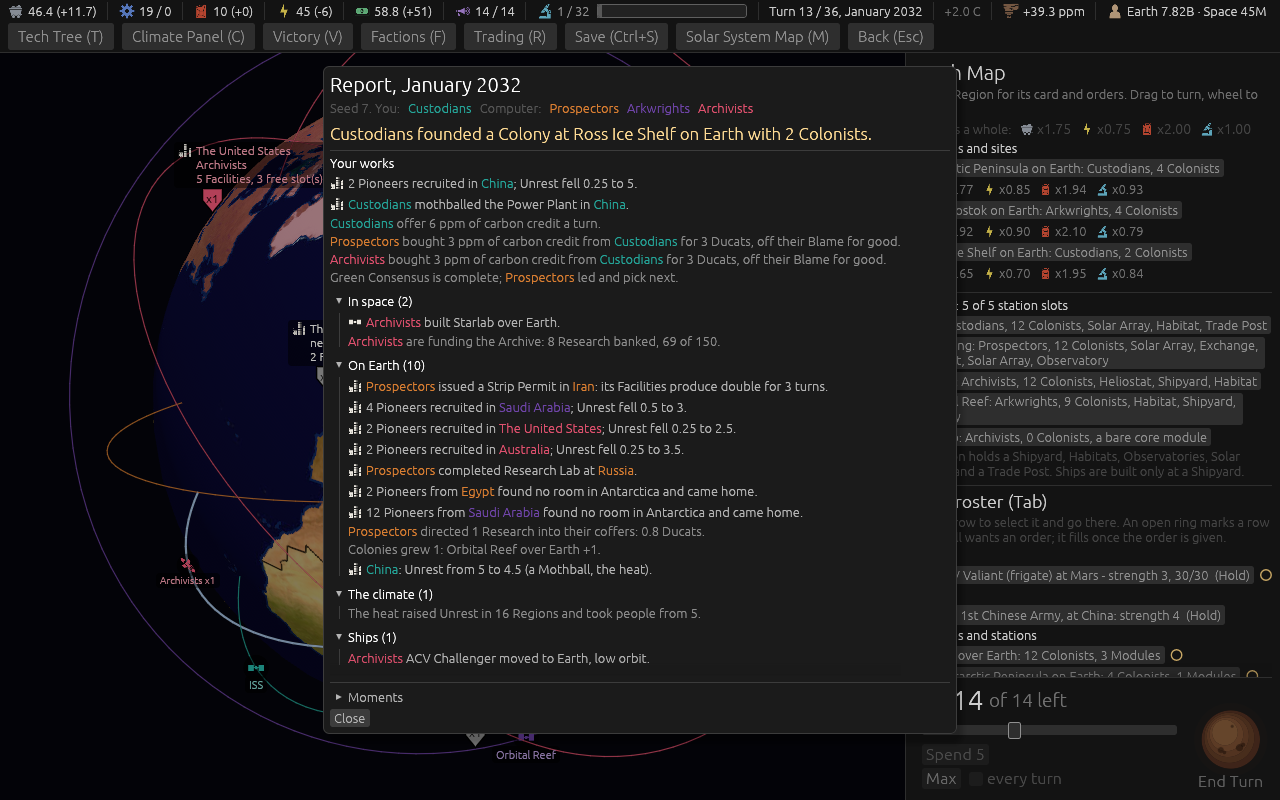
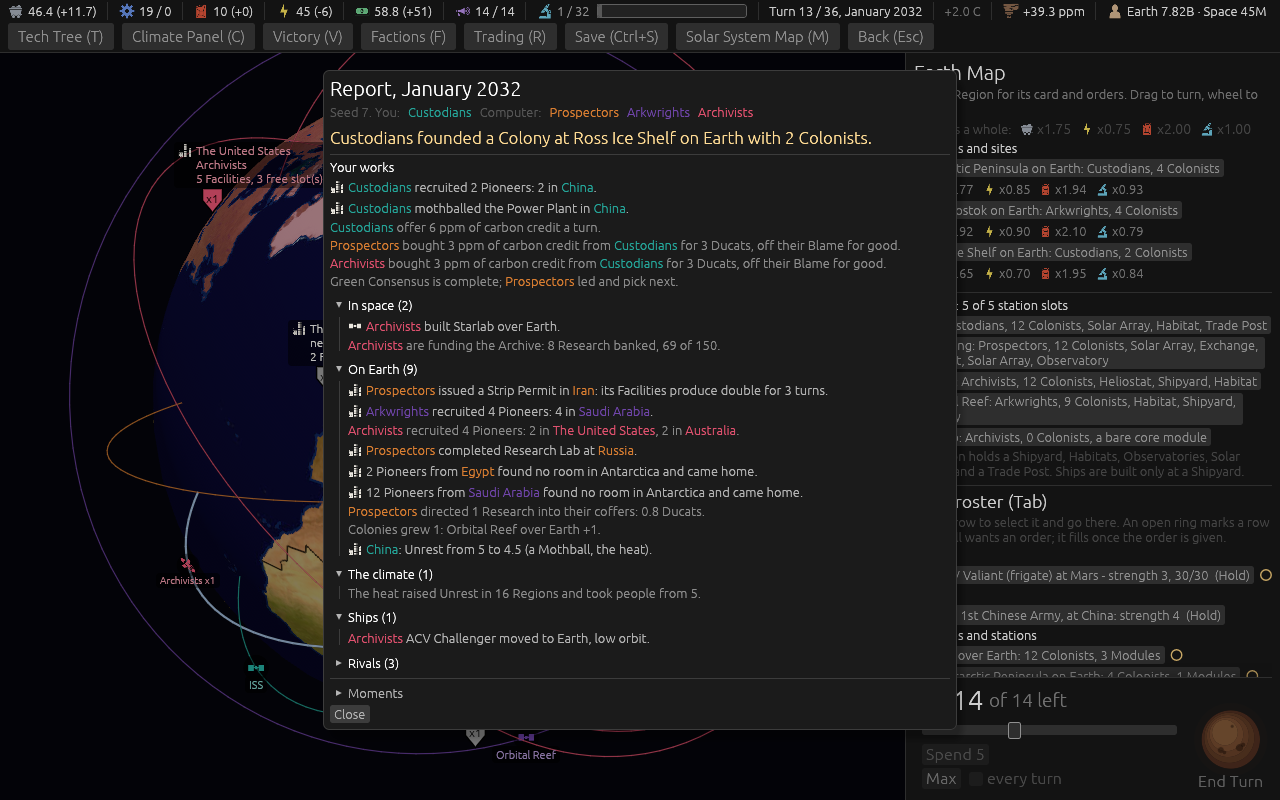
The Report: a Faction's recruiting is one line, the total and then each Region (#463)

Changed region(s): [[0.25, 0.0938, 0.7188, 0.9375], [0.7188, 0.0625, 0.75, 0.0938]]

diff --git a/engine/src/orders.rs b/engine/src/orders.rs
@@ -2370,6 +2370,7 @@ impl Game {
 
     /// Pay for and record every order of a seat at End Turn (spec 7.3: costs are paid at once).
     pub fn commit_orders(&mut self, seat: Seat, orders: &[Order]) {
+        let mut recruited: Vec<(StateId, u32)> = Vec::new();
         for order in orders {
             let cost = self.order_cost(seat, order);
             {
@@ -2680,11 +2681,9 @@ impl Game {
                     let fell = self.lower_unrest(*state, self.tables.emigrants.unrest_fall_each * *n as f64);
                     let line = format!("{} Pioneers recruited in {} for the {}; its Unrest fell by {} to {}.", n, self.tables.state(*state).name, self.seat_name(seat), Game::unrest_figure(fell), self.unrest_text(*state));
                     self.log(line);
-                    let text = self.say(
-                        "emigrants_mustered",
-                        &[("n", n.to_string()), ("state", self.tables.state(*state).name.clone()), ("fell", Game::unrest_figure(fell).to_string()), ("unrest", self.unrest_text(*state))],
-                    );
-                    self.report_line_of(seat, LineKind::YourWorks, LineKind::Note, Some(ReportPlace::State(*state)), text);
+                    // Ticket #463 (version 0.09.7): one Report line a Faction, written after the
+                    // orders -- the total, then each Region -- where each Region had its own.
+                    recruited.push((*state, *n));
                 }
                 // Ticket #73: Emigrants leave for Antarctica by sea, and land a turn later.
                 Order::SendToAntarctica { state, n, into } => {
@@ -2874,6 +2873,14 @@ impl Game {
                     self.log(format!("{} sold {} {} for {} Ducats.", self.seat_name(seat), amount, resource.name(), -cost.ducats));
                 }
             }
+        }
+        if !recruited.is_empty() {
+            let total: u32 = recruited.iter().map(|(_, n)| n).sum();
+            let parts: Vec<String> = recruited.iter().map(|(s, n)| self.phrase("recruited_part", &[("n", n.to_string()), ("state", self.tables.state(*s).name.clone())])).collect();
+            let text = self.say("emigrants_mustered", &[("faction", self.seat_name(seat)), ("n", total.to_string()), ("where", parts.join(", "))]);
+            // One Region is still a line that goes there; several point nowhere in particular.
+            let place = if let [(only, _)] = recruited[..] { Some(ReportPlace::State(only)) } else { None };
+            self.report_line_of(seat, LineKind::YourWorks, LineKind::Note, place, text);
         }
     }
 }

diff --git a/engine/tests/formulas.rs b/engine/tests/formulas.rs
@@ -19320,3 +19320,22 @@ fn a_carbon_credit_the_player_sold_is_listed_once() {
     assert_eq!(listed, 1, "once: {:?}", sections.iter().map(|(s, l)| (*s, l.len())).collect::<Vec<_>>());
     assert!(sections.iter().any(|(s, lines)| *s == Section::YourWorks && lines.iter().any(|l| l.text.contains("carbon credit"))), "and under Your works");
 }
+
+/// Ticket #463 (version 0.09.7), the designer's last word on it: **a Faction's recruiting is one
+/// Report line**, the total and then each Region -- "[Faction recruited total pioneers] [n at
+/// state a] [n at state b]" -- where every Region had a line of its own.
+#[test]
+fn a_factions_recruiting_is_one_report_line() {
+    let mut g = game();
+    calm(&mut g);
+    g.take_control(StateId::SouthAsia, Seat(0));
+    g.report.lines.clear();
+    g.commit_orders(Seat(0), &[Order::BuildEmigrants { state: StateId::EastAsia, n: 2 }, Order::BuildEmigrants { state: StateId::SouthAsia, n: 1 }]);
+    let said: Vec<&str> = g.report.lines.iter().map(|l| l.text.as_str()).filter(|t| t.contains("Pioneers")).collect();
+    assert_eq!(said, vec!["Custodians recruited 3 Pioneers: 2 in China, 1 in India."]);
+    // One Region is the same line, shorter.
+    g.report.lines.clear();
+    g.commit_orders(Seat(1), &[Order::BuildEmigrants { state: StateId::Europe, n: 2 }]);
+    let said: Vec<&str> = g.report.lines.iter().map(|l| l.text.as_str()).filter(|t| t.contains("Pioneers")).collect();
+    assert_eq!(said, vec!["Prospectors recruited 2 Pioneers: 2 in The European Union."]);
+}

diff --git a/engine/src/report.rs b/engine/src/report.rs
@@ -478,7 +478,7 @@ pub const LINE_ARGS: &[(&str, &[&str])] = &[
     ("antarctica_opens", &["n"]),
     ("archive_begun", &["faction", "colony"]),
     ("neutral_research", &["n"]),
-    ("emigrants_mustered", &["n", "state", "fell", "unrest"]),
+    ("emigrants_mustered", &["faction", "n", "where"]),
     // Ticket #334 (version 0.09.0).
     ("army_ordered", &["place", "people"]),
     ("emigrants_arrived", &["n", "state", "colony"]),
@@ -634,6 +634,7 @@ pub const PHRASE_ARGS: &[(&str, &[&str])] = &[
     ("waiting_station", &["station", "body"]),
     ("waiting_many", &["body", "parts"]),
     ("waiting_part_low", &["n"]),
+    ("recruited_part", &["n", "state"]),
     ("waiting_part_station", &["n", "station"]),
     ("waiting_blocked", &[]),
     ("waiting_blockaded", &["station"]),

diff --git a/docs/spec/version-0.09.7.md b/docs/spec/version-0.09.7.md
@@ -161,3 +161,8 @@ moves.
   "color country names the color of their owner too". The owner is whoever controls the Region as
   the Report is read; a Region nobody holds keeps the line's own colour. A name is matched as a
   whole word, so "Iran" is not coloured inside "Iranian".
+- **A Faction's recruiting is one line**, the designer's last addition: the total, then each Region
+  -- "Archivists recruited 4 Pioneers: 2 in The United States, 2 in Australia." Every Region had a
+  line of its own, which also quoted the Unrest it calmed; that clause is gone from the line, and
+  the Region's own Unrest line still carries the change. A line about one Region still goes there
+  when clicked; a line about several points nowhere.

diff --git a/docs/dev-diary/2026-10-03-version-0.09.7/README.md b/docs/dev-diary/2026-10-03-version-0.09.7/README.md
@@ -79,4 +79,7 @@ Two of them caught real faults in the first draft: the Sink Moment is the design
 whose "{ease}" is in words ("a half") and needs its "by"; and a change of hands is listed under two
 headings on purpose (ticket #404), so the single listing was narrowed to carbon credits.
 
+The picture was retaken twice for the designer's two additions: held Regions in their owner's colour,
+and each Faction's recruiting as one line (witnessed red: two lines where one was wanted).
+
 No sweep: nothing a computer seat reads was changed.
